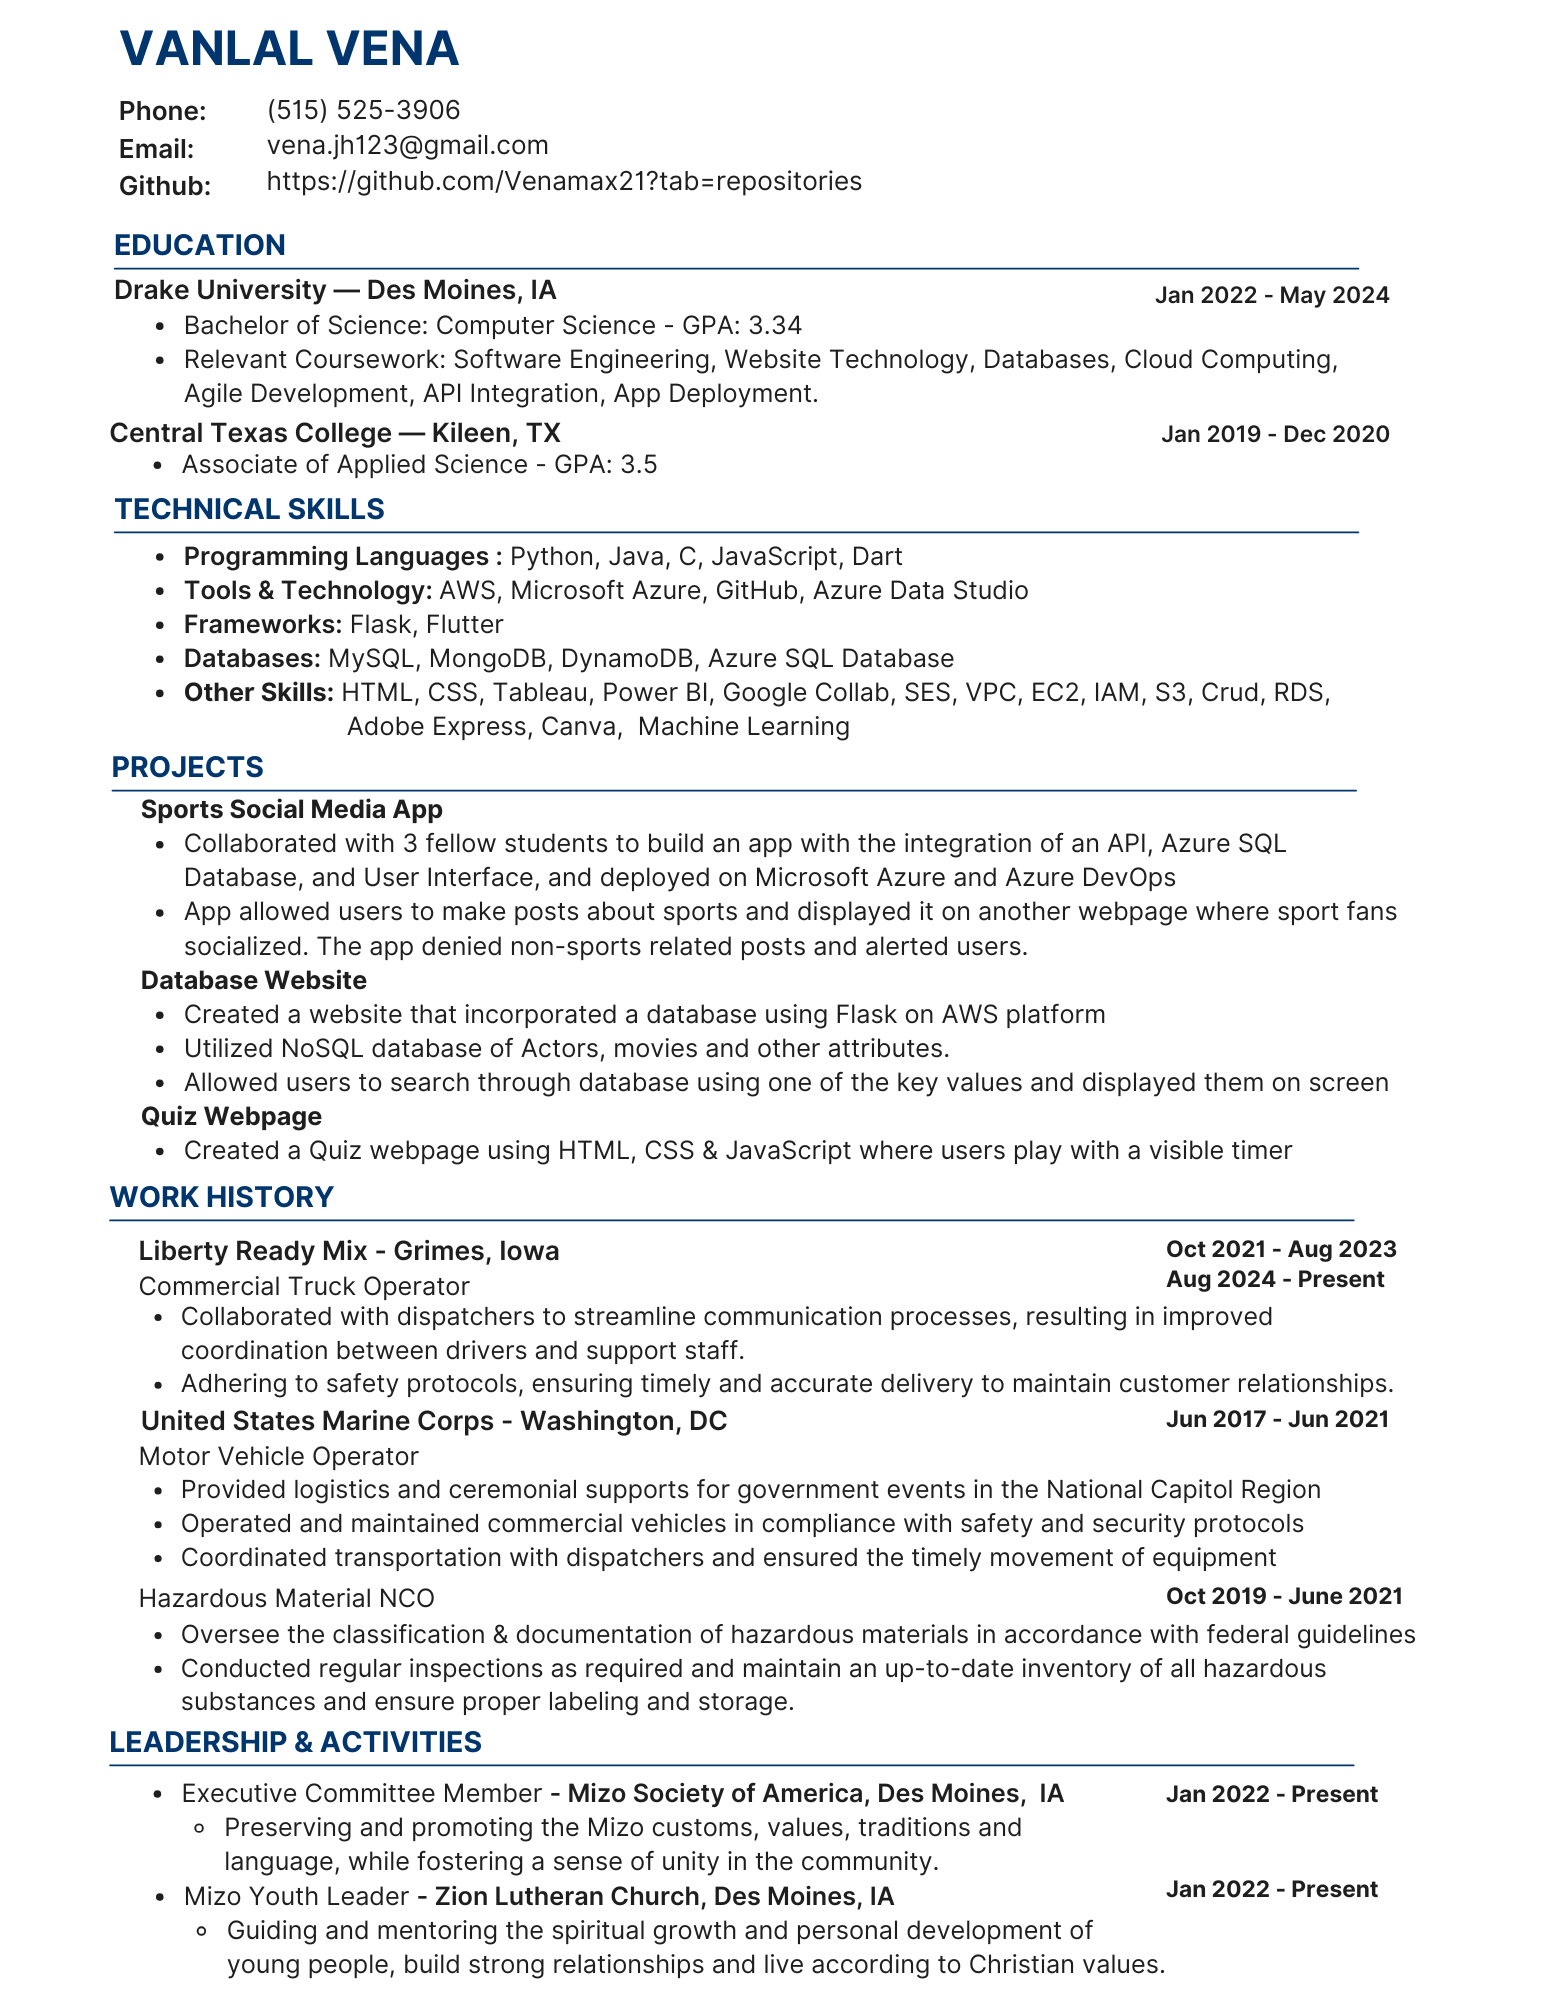
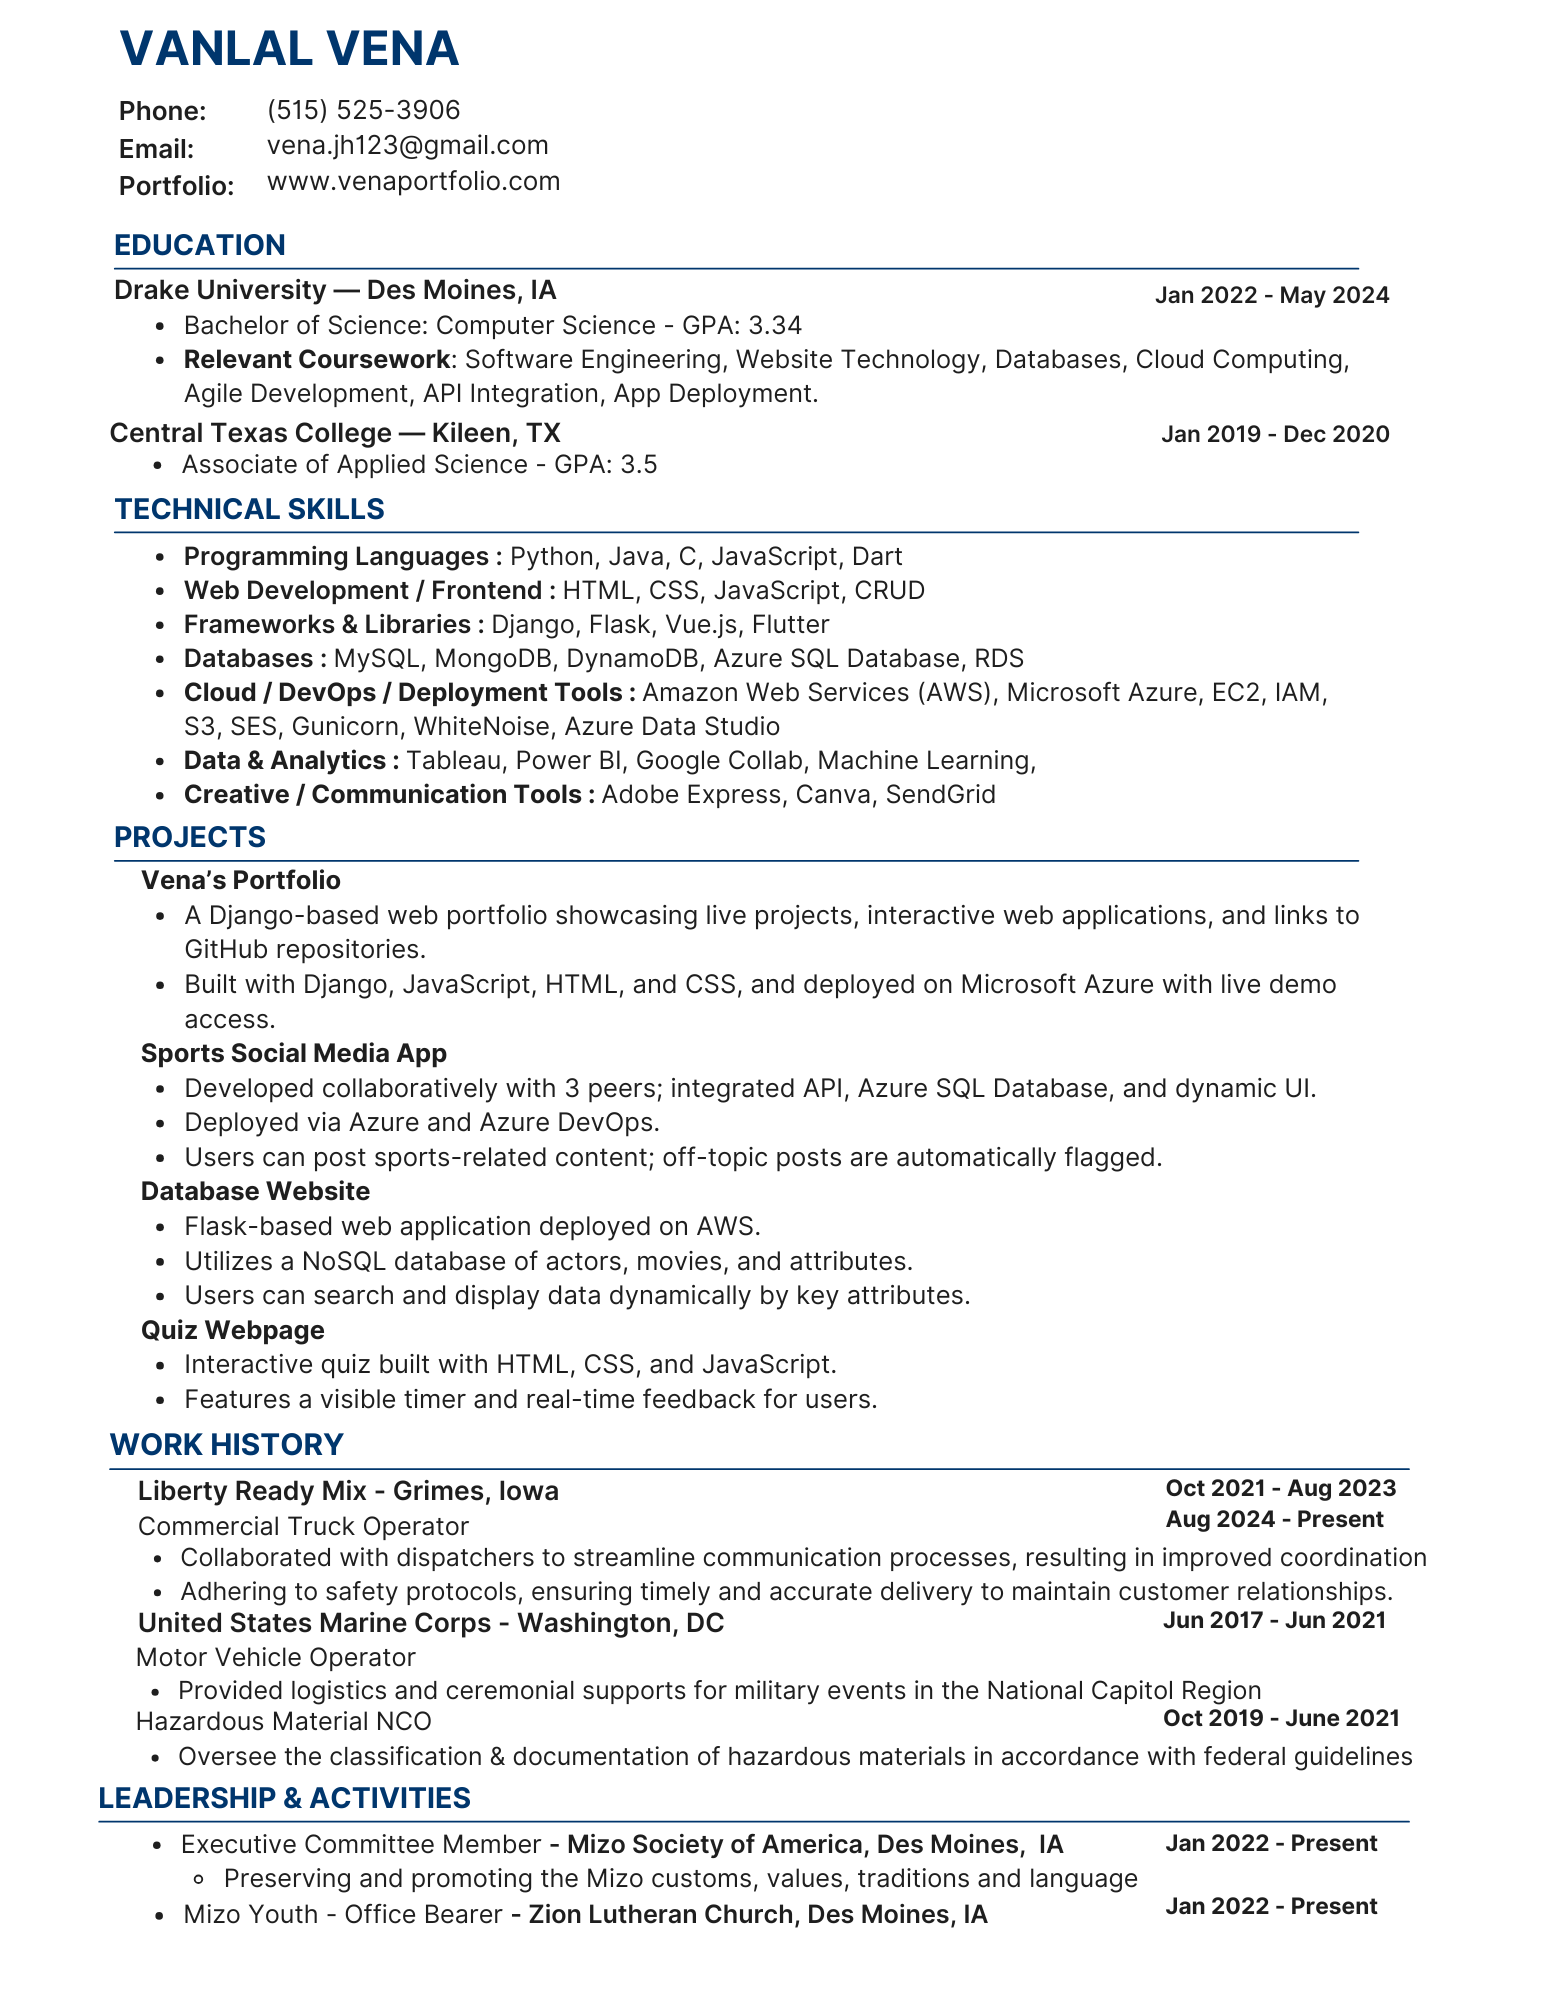
Updated portfolio: replaced resume, added vue form

diff --git a/static/vueform/main.js b/static/vueform/main.js
@@ -1,0 +1,86 @@
+// Load Vue from CDN in your contact.html
+const { createApp, ref } = Vue;
+
+createApp({
+  setup() {
+    // Add all your fields here
+    const form = ref({
+      first_name: "",
+      last_name: "",
+      phone_number: "",
+      email: "",
+      subject: "",
+      message: ""
+    });
+
+    const success = ref(false);
+    const error = ref(false);
+
+    const submitForm = async () => {
+  success.value = false
+  error.value = false
+
+  try {
+    const response = await fetch('/sendmail/', {
+      method: 'POST',
+      headers: { 'Content-Type': 'application/json' },
+      body: JSON.stringify(form.value)
+    })
+
+    // Check for SendGrid's success code (202) or normal 200
+    if (response.status === 200 || response.status === 202) {
+      success.value = true
+      form.value = { 
+        first_name: '', 
+        last_name: '', 
+        phone_number: '', 
+        email: '', 
+        subject: '', 
+        message: '' 
+      }
+    } else {
+      error.value = true
+      console.error("Server returned status:", response.status)
+    }
+  } catch (err) {
+    console.error(err)
+    error.value = true
+  }
+}
+
+    return { form, success, error, submitForm };
+  },
+
+  
+template: `
+  <div class="contact-form max-w-lg mx-auto p-4 bg-white rounded-lg shadow-md">
+    <h2 class="text-2xl font-semibold mb-4 text-center">Contact Me</h2>
+
+    <form @submit.prevent="submitForm" class="space-y-3">
+      <div class="flex space-x-2">
+        <input v-model="form.first_name" type="text" placeholder="First Name" required 
+               class="border rounded p-2 w-1/2 text-blue-900 placeholder-blue-400"/>
+        <input v-model="form.last_name" type="text" placeholder="Last Name" required 
+               class="border rounded p-2 w-1/2 text-blue-900 placeholder-blue-400"/>
+      </div>
+
+      <input v-model="form.phone_number" type="tel" placeholder="Phone Number" required 
+             class="border rounded p-2 w-full text-blue-900 placeholder-blue-400"/>
+      <input v-model="form.email" type="email" placeholder="Email" required 
+             class="border rounded p-2 w-full text-blue-900 placeholder-blue-400"/>
+      <input v-model="form.subject" type="text" placeholder="Subject" required 
+             class="border rounded p-2 w-full text-blue-900 placeholder-blue-400"/>
+      <textarea v-model="form.message" placeholder="Your Message" required 
+                class="border rounded p-2 w-full h-32 text-blue-900 placeholder-blue-400"></textarea>
+
+      <button type="submit" class="w-full bg-blue-600 text-black py-2 px-4 rounded hover:bg-blue-700 transition">
+        Send Message
+      </button>
+    </form>
+
+    <p v-if="success" class="text-green-600 mt-2 text-center">✅ Message sent successfully!</p>
+    <p v-if="error" class="text-red-600 mt-2 text-center">❌ Something went wrong. Try again.</p>
+  </div>
+`
+
+}).mount("#contact-form");

diff --git a/base/templates/base/contact.html b/base/templates/base/contact.html
@@ -17,10 +17,15 @@
                 <a class="contact-link" href="{% static 'images/Resume_Vanlal_Vena.pdf' %}" download>Download PDF</a>
             </p>
         </div>
-
+        
         <div class="col-md-8 text-center mb-5">
+            <div id="contact-form" class="mb-4"></div>
             <img src="{% static 'images/VenaResume.png' %}" alt="Resume" class="img-fluid rounded">
         </div> 
     </div>
 </div>
+
+<script src="https://unpkg.com/vue@3/dist/vue.global.js"></script>
+<script type="module" src="{% static 'vueform/main.js' %}"></script>
+
 {% endblock %}

diff --git a/base/views.py b/base/views.py
@@ -1,6 +1,12 @@
 from django.shortcuts import render
+from django.http import JsonResponse
+import json
+import os
+from sendgrid import SendGridAPIClient
+from sendgrid.helpers.mail import Mail, Email
+from django.views.decorators.csrf import csrf_exempt
 
-# Create your views here.
+# Normal page views
 def home(request):
     return render(request, 'base/home.html')
 
@@ -12,3 +18,63 @@ def about(request):
 
 def contact(request):
     return render(request, 'base/contact.html')
+
+
+# Vue form POST endpoint
+@csrf_exempt
+def sendmail(request):
+    if request.method == "POST":
+        try:
+            data = json.loads(request.body)
+            print("📩 Form data received:", data)
+            
+            first_name = data.get('first_name', '')
+            last_name = data.get('last_name', '')
+            phone_number = data.get('phone_number', '')
+            email = data.get('email', '')
+            subject = data.get('subject', 'New message from portfolio')
+            message = data.get('message', '')
+
+            # Combine names
+            full_name = f"{first_name} {last_name}".strip()
+
+            # Email body content
+            content = (
+                f"Name: {full_name}\n"
+                f"Phone: {phone_number}\n"
+                f"Email: {email}\n\n"
+                f"Message:\n{message}"
+            )
+
+            # Create the SendGrid Mail object
+            mail = Mail(
+                from_email='vanlal.vena@drake.edu',  # must be verified in SendGrid
+                to_emails='vena.jh123@gmail.com',     # your inbox
+                subject=subject,
+                plain_text_content=content,
+            )
+
+            # Optional: reply-to
+            if email:
+                mail.reply_to = Email(email)
+
+            # Send email
+            sg = SendGridAPIClient(os.environ.get("SENDGRID_API_KEY"))
+            response = sg.send(mail)
+
+            # Debug logs
+            print("✅ SendGrid Response Code:", response.status_code)
+            print("✅ SendGrid Response Body:", response.body)
+            print("✅ SendGrid Headers:", response.headers)
+
+            # 202 means SendGrid accepted it successfully
+            if response.status_code == 202:
+                return JsonResponse({"message": "Email sent successfully!"})
+            else:
+                return JsonResponse({"error": "Failed to send email", "status": response.status_code}, status=500)
+
+        except Exception as e:
+            print("❌ Error sending email:", e)
+            return JsonResponse({"error": str(e)}, status=500)
+
+    return JsonResponse({"error": "Invalid request method"}, status=400)

diff --git a/base/test_sendgrid.py b/base/test_sendgrid.py
@@ -1,0 +1,17 @@
+import os
+from sendgrid import SendGridAPIClient
+
+sg = SendGridAPIClient(os.environ.get('SENDGRID_API_KEY'))
+
+try:
+    response = sg.client.user.profile.get()
+    print("✅ API Key works! Status code:", response.status_code)
+except Exception as e:
+    print("❌ Error:", e)
+
+
+# EXPECTED RESPONSE \ SENDGRIT & DJANGO
+
+#✅ SendGrid Response Code: 202
+#✅ SendGrid Response Body: b''
+#✅ SendGrid Headers: Server: nginx

diff --git a/base/urls.py b/base/urls.py
@@ -7,4 +7,5 @@ urlpatterns = [
     path('about/', views.about, name='about'),
     path('project/', views.project, name='project'),
     path('contact/', views.contact, name='contact'),
+    path('sendmail/', views.sendmail, name='sendmail'),  # <-- Vue endpoint
 ]

diff --git a/base/forms.py b/base/forms.py
@@ -1,0 +1,6 @@
+from django import forms
+
+class ContactForm(forms.Form):
+    name = forms.CharField(max_length=100)
+    email = forms.EmailField()
+    message = forms.CharField(widget=forms.Textarea)
